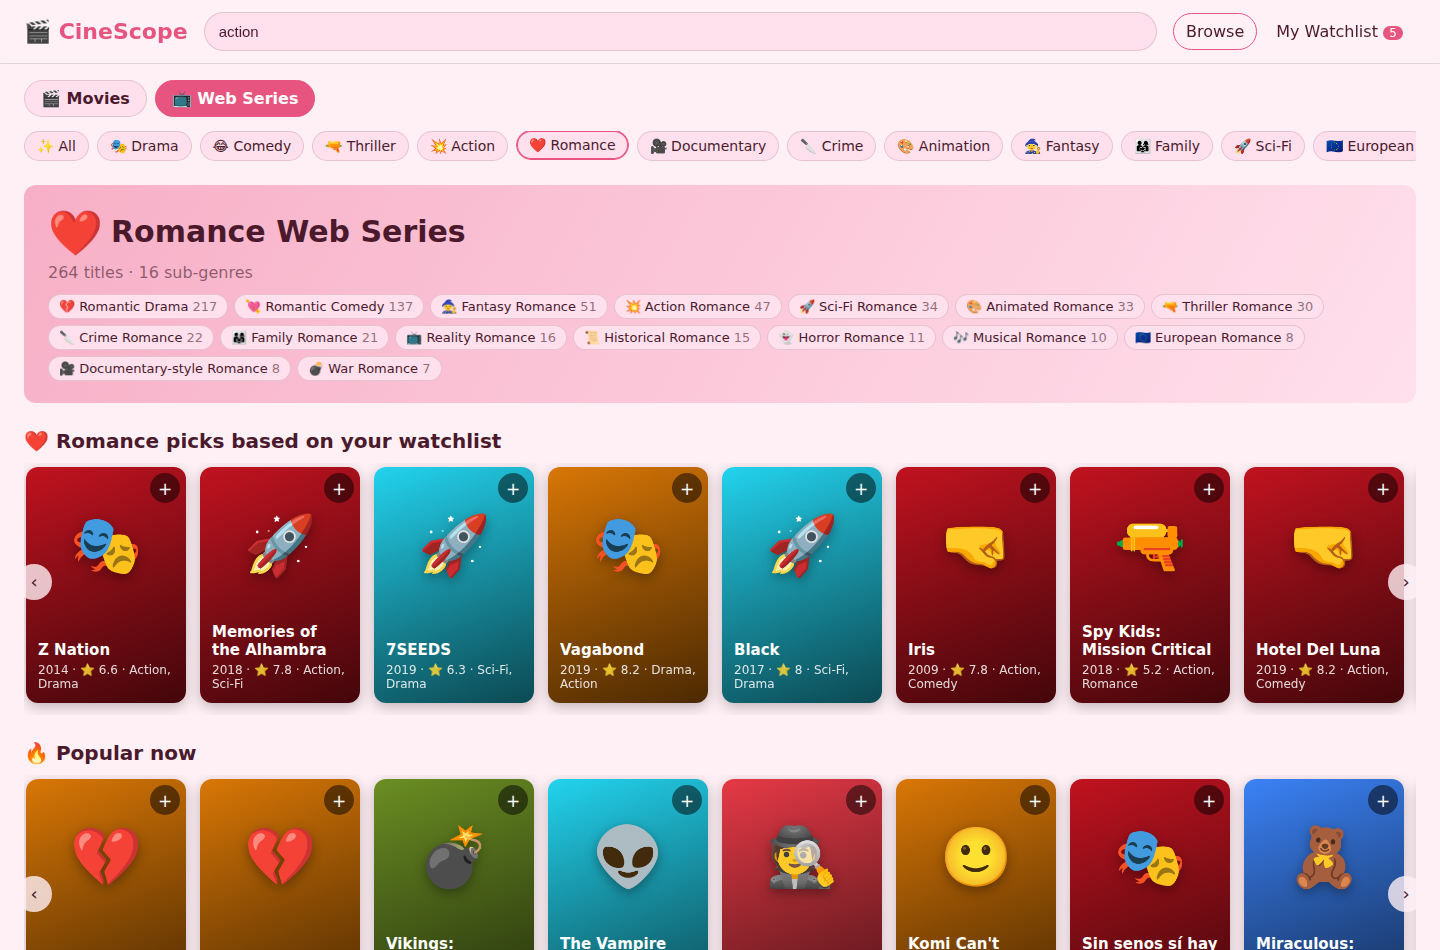
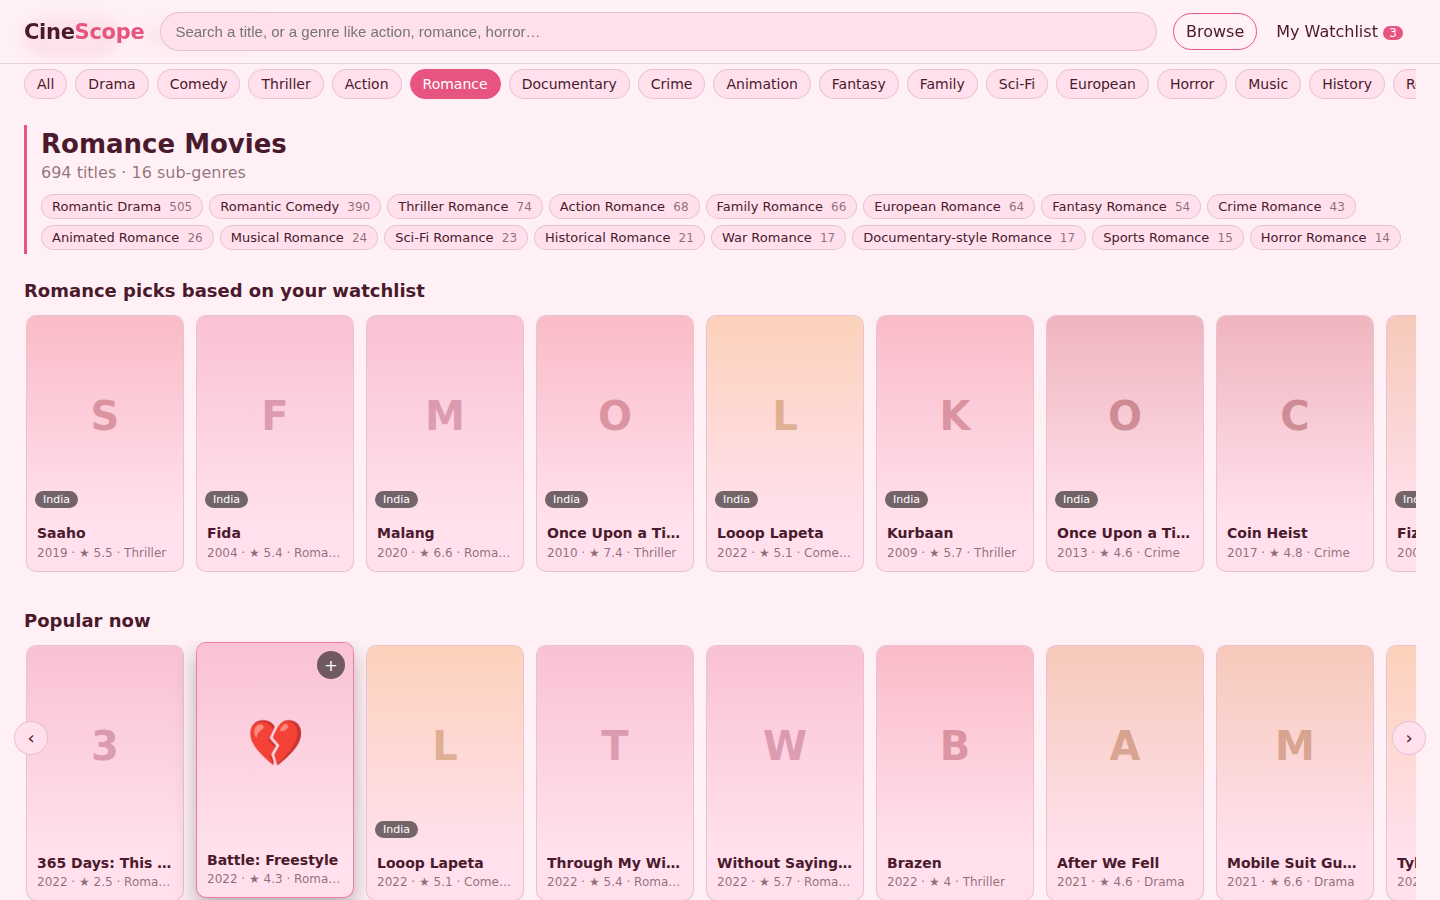
Clean UI: emoji on hover

diff --git a/static/styles.css b/static/styles.css
@@ -31,7 +31,7 @@ button { font: inherit; color: inherit; cursor: pointer; }
   backdrop-filter: blur(8px);
   border-bottom: 1px solid var(--line);
 }
-.logo { font-size: 22px; font-weight: 800; text-decoration: none; color: var(--text); white-space: nowrap; }
+.logo { font-size: 21px; font-weight: 800; letter-spacing: -.3px; text-decoration: none; color: var(--text); white-space: nowrap; }
 .logo span { color: var(--accent); transition: color .6s; }
 .search { flex: 1; }
 .search input {
@@ -70,63 +70,76 @@ main { padding: 16px 24px 40px; }
   transition: transform .15s, border-color .3s;
 }
 .chip:hover { transform: translateY(-1px); border-color: var(--accent); }
-.chip.active { border-color: var(--accent); box-shadow: inset 0 0 0 1px var(--accent); }
+.chip.active { background: var(--accent); border-color: var(--accent); color: #fff; }
 
 /* ---------- hero ---------- */
 .hero {
-  margin: 18px 0 6px; padding: 22px 24px; border-radius: var(--radius);
-  background: linear-gradient(120deg, color-mix(in srgb, var(--accent) 35%, var(--surface)), var(--surface));
-  transition: background .6s;
+  margin: 20px 0 4px; padding: 4px 0 4px 14px; border-left: 3px solid var(--accent);
+  transition: border-color .6s;
 }
-.hero h1 { margin: 0 0 4px; font-size: 30px; }
-.hero .big { font-size: 44px; margin-right: 8px; vertical-align: middle; }
+.hero h1 { margin: 0 0 4px; font-size: 26px; font-weight: 700; }
 .hero .subs { display: flex; flex-wrap: wrap; gap: 6px; margin-top: 12px; }
 .hero .subs .chip { font-size: 13px; padding: 4px 10px; }
+.chip .n { color: var(--muted); font-size: 12px; margin-left: 4px; }
+.section-title { margin: 36px 0 0; font-size: 20px; font-weight: 700; }
 
 /* ---------- rows ---------- */
 .row { margin-top: 26px; }
 .row-head { display: flex; align-items: baseline; gap: 10px; margin-bottom: 10px; }
-.row-head h2 { margin: 0; font-size: 20px; }
+.row-head h2 { margin: 0; font-size: 18px; font-weight: 600; }
 .row-head .count { font-size: 13px; }
 .row-wrap { position: relative; }
 .track {
-  display: flex; gap: 14px; overflow-x: auto; scroll-behavior: smooth;
+  display: flex; gap: 12px; overflow-x: auto; scroll-behavior: smooth;
   padding: 4px 2px 12px; scrollbar-width: thin;
 }
 .arrow {
-  position: absolute; top: 40%; z-index: 2; width: 36px; height: 36px; border-radius: 50%;
-  border: none; background: color-mix(in srgb, var(--bg) 80%, transparent); font-size: 18px;
+  position: absolute; top: 80px; z-index: 3; width: 34px; height: 34px; border-radius: 50%;
+  border: 1px solid var(--line); background: var(--surface); font-size: 18px;
+  opacity: 0; transition: opacity .2s;
 }
-.arrow.left { left: -8px; } .arrow.right { right: -8px; }
+.row-wrap:hover .arrow { opacity: 1; }
+.arrow.left { left: -10px; } .arrow.right { right: -10px; }
 
 .card {
   --g: #555;                      /* card genre colour - JS set chestundi */
-  position: relative; flex: 0 0 160px; height: 236px; border-radius: var(--radius);
-  background: linear-gradient(160deg, var(--g), color-mix(in srgb, var(--g) 35%, #000));
-  color: #fff; padding: 12px; display: flex; flex-direction: column; justify-content: flex-end;
-  box-shadow: 0 4px 14px rgba(0,0,0,.25); cursor: pointer; overflow: hidden;
-  transition: transform .2s, box-shadow .2s;
+  position: relative; flex: 0 0 158px; border-radius: 10px; cursor: pointer; overflow: hidden;
+  background: var(--surface); border: 1px solid var(--line);
+  display: flex; flex-direction: column;
+  transition: transform .2s ease, border-color .2s ease, box-shadow .2s ease;
 }
-.card:hover, .card:focus-visible { transform: translateY(-4px) scale(1.02); box-shadow: 0 10px 24px rgba(0,0,0,.35); outline: none; }
+.card:hover, .card:focus-visible {
+  transform: translateY(-3px); border-color: color-mix(in srgb, var(--g) 70%, transparent);
+  box-shadow: 0 10px 22px rgba(0,0,0,.28); outline: none;
+}
+/* poster unte poster, lekapothe genre colour lo simple placeholder */
+.card .art {
+  position: relative; height: 200px;
+  background: linear-gradient(180deg, color-mix(in srgb, var(--g) 22%, var(--surface)), var(--surface));
+  display: grid; place-items: center;
+}
 .card .poster { position: absolute; inset: 0; width: 100%; height: 100%; object-fit: cover; }
-.card.has-poster::after {            /* poster meeda title chadavadaniki kinda dark shade */
-  content: ""; position: absolute; inset: 45% 0 0 0; background: linear-gradient(transparent, rgba(0,0,0,.85));
+.card .initial { font-size: 40px; font-weight: 700; color: color-mix(in srgb, var(--g) 55%, var(--text));
+  opacity: .35; transition: opacity .2s; }
+/* emoji hover lo matrame vastundi 👀 */
+.card .emoji {
+  position: absolute; font-size: 46px; opacity: 0; transform: scale(.6);
+  transition: opacity .2s ease, transform .2s ease; pointer-events: none;
 }
-.card.has-poster .title, .card.has-poster .meta { position: relative; z-index: 1; }
-.card.has-poster .emoji { top: auto; bottom: auto; left: auto; right: 44px; top: 6px; font-size: 20px; z-index: 1;
-  background: rgba(0,0,0,.45); border-radius: 999px; width: 30px; height: 30px; line-height: 30px; }
-.card .tag, .card .add { z-index: 2; }
-.card .emoji { position: absolute; top: 44px; left: 0; right: 0; text-align: center; font-size: 58px;
-  filter: drop-shadow(0 4px 6px rgba(0,0,0,.35)); }
-.card .title { font-weight: 700; font-size: 15px; line-height: 1.2; display: -webkit-box;
-  -webkit-line-clamp: 2; -webkit-box-orient: vertical; overflow: hidden; }
-.card .meta { font-size: 12px; opacity: .85; margin-top: 4px; }
-.card .tag { position: absolute; top: 8px; left: 8px; font-size: 11px; padding: 2px 7px; border-radius: 999px;
-  background: rgba(0,0,0,.45); }
+.card.has-poster .emoji { top: 8px; left: 8px; font-size: 22px; }
+.card:hover .emoji, .card:focus-visible .emoji { opacity: 1; transform: scale(1); }
+.card:hover .initial { opacity: 0; }
+.card .body { padding: 9px 10px 11px; }
+.card .title { font-weight: 600; font-size: 14px; line-height: 1.25; white-space: nowrap; overflow: hidden; text-overflow: ellipsis; }
+.card .meta { font-size: 12px; color: var(--muted); margin-top: 3px; white-space: nowrap; overflow: hidden; text-overflow: ellipsis; }
+.card .tag { position: absolute; bottom: 8px; left: 8px; font-size: 11px; padding: 2px 8px; border-radius: 999px;
+  background: rgba(0,0,0,.55); color: #fff; }
 .card .add {
-  position: absolute; top: 6px; right: 6px; width: 30px; height: 30px; border-radius: 50%;
-  border: none; background: rgba(0,0,0,.5); color: #fff; font-size: 17px; line-height: 30px;
+  position: absolute; top: 8px; right: 8px; width: 28px; height: 28px; border-radius: 50%;
+  border: none; background: rgba(0,0,0,.55); color: #fff; font-size: 16px; line-height: 28px;
+  opacity: 0; transition: opacity .2s;
 }
+.card:hover .add, .card:focus-within .add, .card .add.on { opacity: 1; }
 .card .add.on { background: #22c55e; }
 
 /* ---------- modal ---------- */
@@ -157,7 +170,7 @@ main { padding: 16px 24px 40px; }
   background: var(--surface); border: 1px solid var(--line);
 }
 .wl-item input[type=checkbox] { width: 20px; height: 20px; accent-color: var(--accent); cursor: pointer; }
-.wl-item .e { font-size: 26px; }
+.wl-item .e { font-size: 22px; }
 .wl-item .info { flex: 1; min-width: 0; }
 .wl-item .t { font-weight: 600; cursor: pointer; }
 .wl-item.done .t { text-decoration: line-through; opacity: .6; }
@@ -177,20 +190,30 @@ main { padding: 16px 24px 40px; }
   box-shadow: 0 6px 18px rgba(0,0,0,.3);
 }
 
+/* ---------- hover lo emoji reveal ✨ ---------- */
+.ico {
+  display: inline-block; max-width: 0; opacity: 0; overflow: hidden; vertical-align: bottom;
+  transition: max-width .25s ease, opacity .2s ease, margin .25s ease;
+}
+:is(.chip, .kind, .wl-kind, .row-head, .hero, .section-title, .wl-head, .wl-item):hover .ico,
+:is(.chip, .kind, .wl-kind):focus-visible .ico,
+.wl-item.done .ico {
+  max-width: 2em; opacity: 1; margin-right: 6px;
+}
+
+/* phone lo hover undadu - active chip ki matrame emoji */
+@media (hover: none) {
+  :is(.chip, .kind, .wl-kind).active .ico { max-width: 2em; opacity: 1; margin-right: 6px; }
+  .card .add { opacity: 1; }
+}
+
 @media (max-width: 720px) {
   .topbar { flex-wrap: wrap; padding: 10px 16px; }
   .search { order: 3; flex-basis: 100%; }
   main { padding: 12px 16px 30px; }
-  .card { flex-basis: 130px; height: 196px; }
-  .card .poster { position: absolute; inset: 0; width: 100%; height: 100%; object-fit: cover; }
-.card.has-poster::after {            /* poster meeda title chadavadaniki kinda dark shade */
-  content: ""; position: absolute; inset: 45% 0 0 0; background: linear-gradient(transparent, rgba(0,0,0,.85));
-}
-.card.has-poster .title, .card.has-poster .meta { position: relative; z-index: 1; }
-.card.has-poster .emoji { top: auto; bottom: auto; left: auto; right: 44px; top: 6px; font-size: 20px; z-index: 1;
-  background: rgba(0,0,0,.45); border-radius: 999px; width: 30px; height: 30px; line-height: 30px; }
-.card .tag, .card .add { z-index: 2; }
-.card .emoji { top: 34px; font-size: 46px; }
-  .hero h1 { font-size: 24px; }
+  .card { flex-basis: 128px; }
+  .card .art { height: 164px; }
+  .hero h1 { font-size: 22px; }
   .m-top { flex-direction: column; }
+  .arrow { display: none; }
 }

diff --git a/static/app.js b/static/app.js
@@ -64,21 +64,29 @@ function genreColor(item) {
   return g ? g.theme.accent : "#555";
 }
 
-const stars = (x) => (x.rating ? ` · ⭐ ${x.rating}` : x.imdb ? ` · ⭐ ${x.imdb}` : "");
+// emoji ni span lo pedtham - CSS hover lo matrame chupistundi 👀
+const ico = (e) => `<span class="ico">${e}</span>`;
+
+const stars = (x) => (x.rating ? ` · ★ ${x.rating}` : x.imdb ? ` · ★ ${x.imdb}` : "");
 
 function cardEl(item) {
   const el = document.createElement("div");
   el.className = "card" + (item.poster ? " has-poster" : "");
   el.tabIndex = 0;
   el.style.setProperty("--g", genreColor(item));
-  const tag = item.language && item.india ? `🇮🇳 ${esc(item.language)}` : item.india ? "🇮🇳 India" : "";
+  const tag = item.language && item.india ? esc(item.language) : item.india ? "India" : "";
   el.innerHTML = `
-    ${item.poster ? `<img class="poster" loading="lazy" alt="" src="${esc(item.poster)}">` : ""}
-    ${tag ? `<span class="tag">${tag}</span>` : ""}
-    <button class="add" data-add="${esc(item.id)}" aria-label="Add to watchlist"></button>
-    <div class="emoji">${item.emoji}</div>
-    <div class="title">${esc(item.title)}</div>
-    <div class="meta">${item.year}${stars(item)} · ${esc(item.genre_labels.slice(0, 2).join(", "))}</div>`;
+    <div class="art">
+      ${item.poster ? `<img class="poster" loading="lazy" alt="" src="${esc(item.poster)}">` : ""}
+      <span class="initial">${esc(item.title.trim()[0] || "")}</span>
+      <span class="emoji">${item.emoji}</span>
+      ${tag ? `<span class="tag">${tag}</span>` : ""}
+      <button class="add" data-add="${esc(item.id)}" aria-label="Add to watchlist"></button>
+    </div>
+    <div class="body">
+      <div class="title" title="${esc(item.title)}">${esc(item.title)}</div>
+      <div class="meta">${item.year}${stars(item)} · ${esc(item.genre_labels[0] || "")}</div>
+    </div>`;
   // Poster load avvakapothe emoji card ki fallback 🎭
   const img = $(".poster", el);
   if (img) img.onerror = () => { img.remove(); el.classList.remove("has-poster"); };
@@ -95,7 +103,7 @@ function rowEl(row) {
   sec.className = "row";
   sec.id = `row-${row.key}`;
   sec.innerHTML = `
-    <div class="row-head"><h2>${row.emoji} ${esc(row.title)}</h2>
+    <div class="row-head"><h2>${ico(row.emoji)}${esc(row.title)}</h2>
       ${row.count ? `<span class="count muted">${row.count} titles</span>` : ""}</div>
     <div class="row-wrap">
       <button class="arrow left" aria-label="Scroll left">‹</button>
@@ -115,13 +123,13 @@ function renderChips() {
   box.innerHTML = "";
   const all = document.createElement("button");
   all.className = "chip" + (state.genre ? "" : " active");
-  all.textContent = "✨ All";
+  all.innerHTML = `${ico("✨")}All`;
   all.onclick = () => { $("#search").value = ""; setGenre(null); };
   box.appendChild(all);
   Object.values(state.genres).forEach((g) => {
     const b = document.createElement("button");
     b.className = "chip" + (state.genre === g.key ? " active" : "");
-    b.textContent = `${g.emoji} ${g.label}`;
+    b.innerHTML = `${ico(g.emoji)}${esc(g.label)}`;
     b.onclick = () => { $("#search").value = ""; setGenre(g.key); };
     box.appendChild(b);
   });
@@ -145,14 +153,14 @@ async function loadBrowse() {
   const hero = $("#hero");
   if (data.genre) {
     hero.innerHTML = `
-      <h1><span class="big">${data.genre.emoji}</span>${esc(data.genre.label)} ${kindLabel}</h1>
+      <h1>${ico(data.genre.emoji)}${esc(data.genre.label)} ${kindLabel}</h1>
       <div class="muted">${data.total} titles · ${data.subgenres.length} sub-genres</div>
       <div class="subs">${data.subgenres.map((s) =>
-        `<button class="chip" data-jump="${esc(s.key)}">${s.emoji} ${esc(s.title)} <span class="muted">${s.count}</span></button>`).join("")}</div>`;
+        `<button class="chip" data-jump="${esc(s.key)}">${ico(s.emoji)}${esc(s.title)} <span class="n">${s.count}</span></button>`).join("")}</div>`;
     hero.querySelectorAll("[data-jump]").forEach((b) =>
       (b.onclick = () => document.getElementById(`row-${b.dataset.jump}`)?.scrollIntoView({ behavior: "smooth" })));
   } else {
-    hero.innerHTML = `<h1><span class="big">🍿</span>All ${kindLabel}</h1>
+    hero.innerHTML = `<h1>${ico("🍿")}All ${kindLabel}</h1>
       <div class="muted">${data.total} titles · pick a genre to change the whole vibe</div>`;
   }
   const rows = $("#rows");
@@ -160,8 +168,8 @@ async function loadBrowse() {
   data.rows.forEach((r) => rows.appendChild(rowEl(r)));
   if (data.subgenres.length) {
     const h = document.createElement("h2");
-    h.style.margin = "34px 0 0";
-    h.textContent = data.genre ? `${data.genre.emoji} Sub-genres` : "🎭 By genre";
+    h.className = "section-title";
+    h.innerHTML = data.genre ? `${ico(data.genre.emoji)}Sub-genres` : `${ico("🎭")}By genre`;
     rows.appendChild(h);
     data.subgenres.forEach((r) => rows.appendChild(rowEl(r)));
   }
@@ -218,7 +226,7 @@ async function openModal(id) {
                  : `<div class="m-emoji" style="background:linear-gradient(160deg, ${color}, #000)">${t.emoji}</div>`}
       <div>
         <h2 class="m-title" id="m-title">${esc(t.title)}</h2>
-        <div class="muted">${t.kind === "series" ? "📺 Web Series" : "🎬 Movie"} · ${t.year}${len ? " · " + len : ""}${t.age ? " · " + esc(t.age) : ""}${t.rating ? ` · ⭐ ${t.rating} ${esc(t.rating_src)}` : ""}${t.language ? " · 🗣 " + esc(t.language) : ""}${t.india ? " · 🇮🇳 India" : ""}</div>
+        <div class="muted">${t.kind === "series" ? "Web Series" : "Movie"} · ${t.year}${len ? " · " + len : ""}${t.age ? " · " + esc(t.age) : ""}${t.rating ? ` · ★ ${t.rating} ${esc(t.rating_src)}` : ""}${t.language ? " · " + esc(t.language) : ""}${t.india && !t.language ? " · India" : ""}</div>
         <div style="margin:10px 0">${t.genre_labels.map((g) => `<span class="pill">${esc(g)}</span>`).join("")}</div>
         <p>${esc(t.description) || '<span class="muted">No description available.</span>'}</p>
         <button class="btn" id="m-add"></button>
@@ -259,9 +267,9 @@ function renderWatchlist() {
     const labels = x.genres.map((k) => state.genres[k]?.label || k).join(", ");
     li.innerHTML = `
       <input type="checkbox" ${x.watched ? "checked" : ""} aria-label="Mark ${esc(x.title)} as watched">
-      <span class="e">${x.emoji}</span>
+      <span class="e ico">${x.emoji}</span>
       <div class="info"><div class="t">${esc(x.title)}</div>
-        <div class="muted" style="font-size:13px">${x.kind === "series" ? "📺 Web Series" : "🎬 Movie"} · ${x.year} · ${esc(labels)}${stars(x)}</div></div>
+        <div class="muted" style="font-size:13px">${x.kind === "series" ? "Web Series" : "Movie"} · ${x.year} · ${esc(labels)}${stars(x)}</div></div>
       <button class="remove" aria-label="Remove">✕</button>`;
     $("input", li).onchange = (e) => {
       const l = loadWL();

diff --git a/static/index.html b/static/index.html
@@ -9,7 +9,7 @@
 </head>
 <body>
   <header class="topbar">
-    <a class="logo" href="#" data-home>🎬 <span>CineScope</span></a>
+    <a class="logo" href="#" data-home>Cine<span>Scope</span></a>
     <div class="search">
       <input id="search" type="search" autocomplete="off"
              placeholder="Search a title, or a genre like action, romance, horror…" aria-label="Search">
@@ -24,8 +24,8 @@
     <!-- Browse view -->
     <section id="view-browse">
       <div class="kind-tabs" role="tablist">
-        <button class="kind active" data-kind="movie" role="tab">🎬 Movies</button>
-        <button class="kind" data-kind="series" role="tab">📺 Web Series</button>
+        <button class="kind active" data-kind="movie" role="tab"><span class="ico">🎬</span>Movies</button>
+        <button class="kind" data-kind="series" role="tab"><span class="ico">📺</span>Web Series</button>
       </div>
       <div id="genre-chips" class="chips" aria-label="Genres"></div>
       <div id="lang-chips" class="chips langs" aria-label="Languages" hidden></div>
@@ -38,14 +38,14 @@
     <!-- Watchlist view -->
     <section id="view-watchlist" hidden>
       <div class="wl-head">
-        <h1>📝 My Watchlist</h1>
+        <h1><span class="ico">📝</span>My Watchlist</h1>
         <p id="wl-progress" class="muted"></p>
       </div>
       <div class="wl-controls">
         <div class="kind-tabs small">
           <button class="wl-kind active" data-wlkind="all">All</button>
-          <button class="wl-kind" data-wlkind="movie">🎬 Movies</button>
-          <button class="wl-kind" data-wlkind="series">📺 Web Series</button>
+          <button class="wl-kind" data-wlkind="movie"><span class="ico">🎬</span>Movies</button>
+          <button class="wl-kind" data-wlkind="series"><span class="ico">📺</span>Web Series</button>
         </div>
         <select id="wl-genre" aria-label="Filter by genre"><option value="">All genres</option></select>
         <label class="toggle"><input type="checkbox" id="wl-hide-watched"> Hide watched</label>
